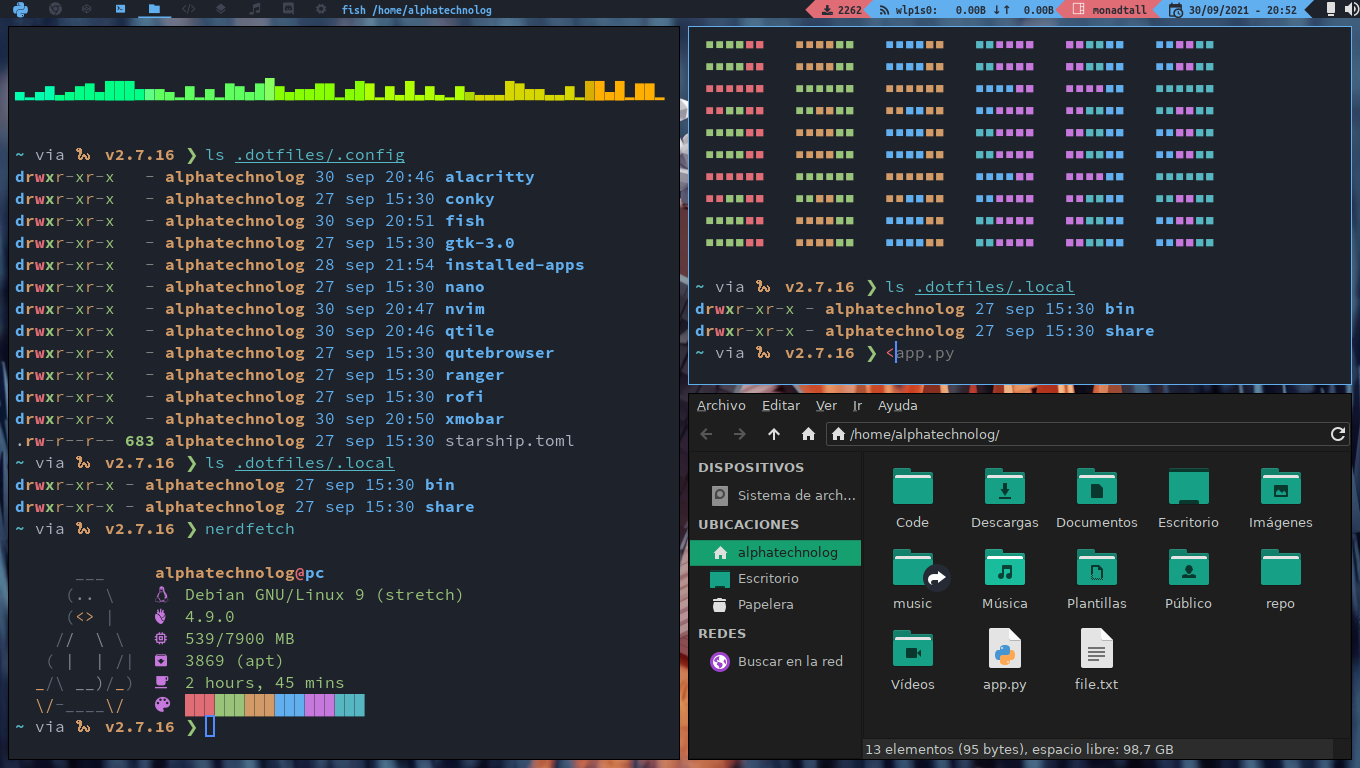
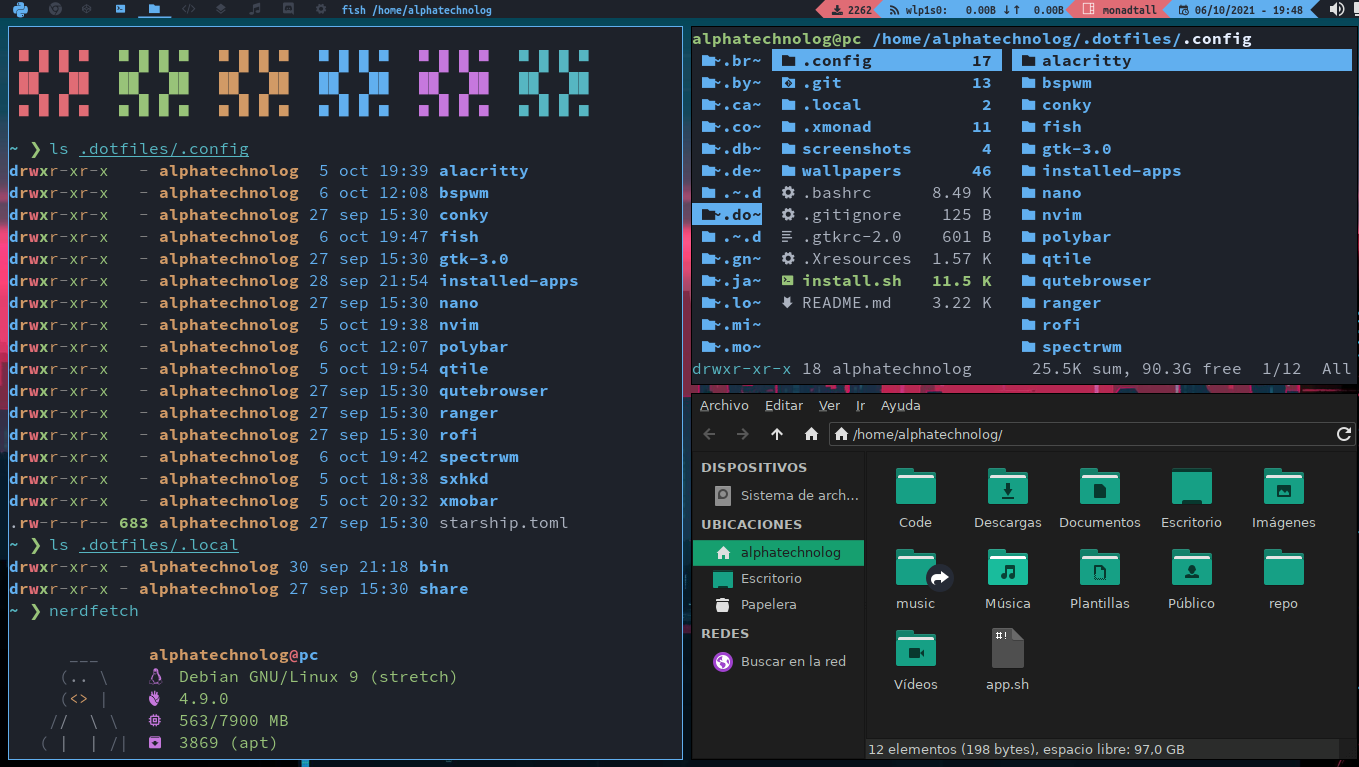
README.md: Updated for include bspwm and spectrwm && install.sh: added bspwm and spectrwm as to recompile dependencies

diff --git a/README.md b/README.md
@@ -1,18 +1,10 @@
 # dotfiles
 
-This is my dotfiles, now only have xmonad, xmobar and qtile configs, but in
-the future I will add configs for dwm, i3wm, bspwm, sxhkd, polybar
-spectrwm, tint2, dwmblocks and much more.
+This is my dotfiles for xmonad, xmobar, qtile, bspwm, sxhkd, spectrwm, polybar configs, but in the future I will add configs for dwm, tint2, dwmblocks, openbox and much more.
 
-## Screenshots
+## Simple but elegant
 
-![xmonad](./screenshots/xmonad.png)
-<br>
-![xmonad-2](./screenshots/xmonad-2.png)
-<br>
-![qtile](./screenshots/qtile.png)
-<br>
-![qtile-2](./screenshots/qtile-2.png)
+![bspwm](./screenshots/bspwm.png)
 
 ## Config explain
 
@@ -114,3 +106,25 @@ My apps are:
 - thunar -> $ thunar
 - neovim -> $ nvim
 - emacs -> $ emacs
+
+## Images galery
+
+### Qtile
+
+![qtile](./screenshots/qtile.png)
+![qtile-2](./screenshots/qtile-2.png)
+
+### Xmonad
+
+![xmonad](./screenshots/xmonad.png)
+![xmonad-2](./screenshots/xmonad-2.png)
+
+### Bspwm
+
+![bspwm](./screenshots/bspwm.png)
+![bspwm-2](./screenshots/bspwm-2.png)
+
+### Spectrwm
+
+![spectrwm](./screenshots/spectrwm.png)
+![spectrwm-2](./screenshots/spectrwm-2.png)
